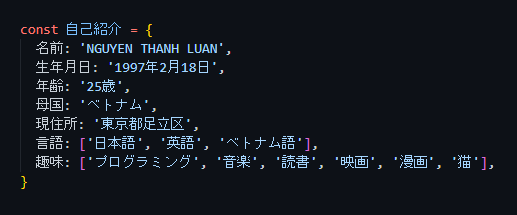
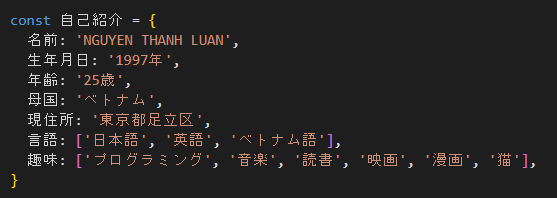
fixed jikoshokai

diff --git a/components/_sub_components/自己紹介.js b/components/_sub_components/自己紹介.js
@@ -3,13 +3,12 @@
 
 const 自己紹介 = {
   名前: 'NGUYEN THANH LUAN',
-  生年月日: '1997年2月18日',
+  生年月日: '1997年',
   年齢: '25歳',
   母国: 'ベトナム',
   現住所: '東京都足立区',
   言語: ['日本語', '英語', 'ベトナム語'],
   趣味: ['プログラミング', '音楽', '読書', '映画', '漫画', '猫'],
 }
-
 
 
